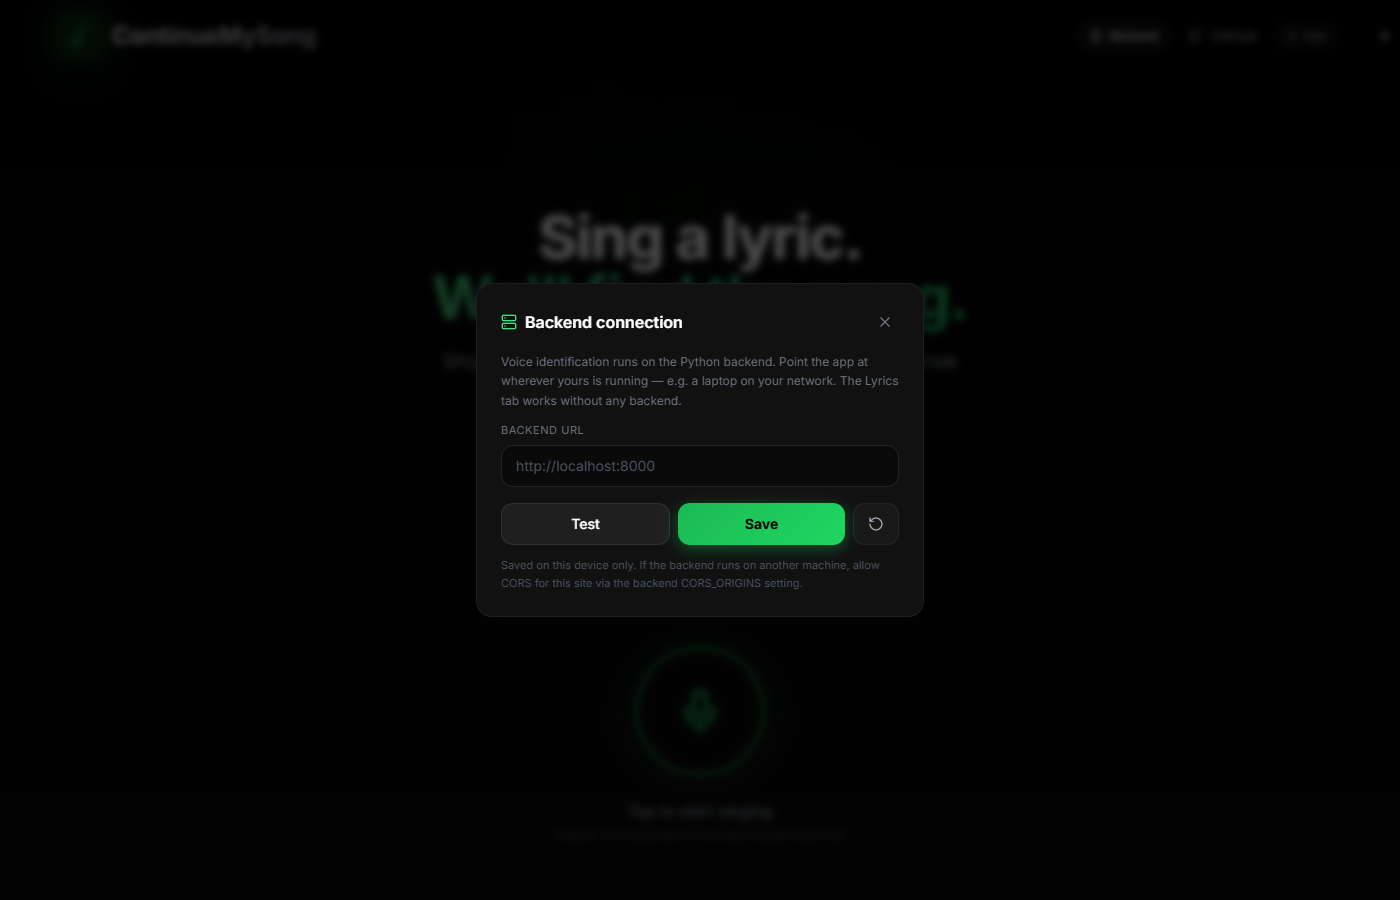
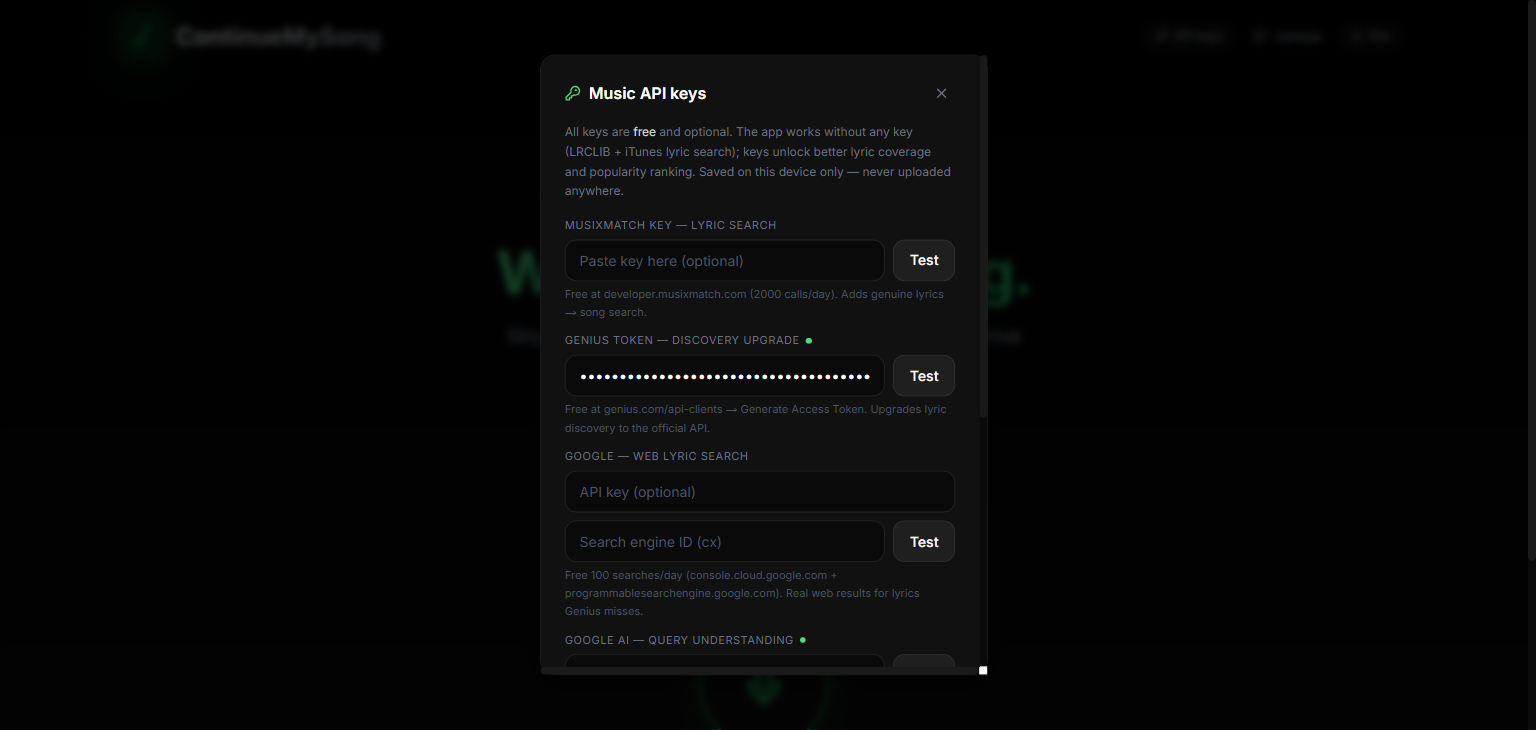
docs(search): fresh screenshots, harness count, larger model budget
maxOutputTokens 120->512 (thinking models truncated JSON replies),
README harness count 57, live-captured settings + Hey-Jude-#1
screenshots replacing stale UI images.

diff --git a/frontend/lib/browserSearch.ts b/frontend/lib/browserSearch.ts
@@ -121,7 +121,7 @@ async function geminiQueryVariants(transcript: string): Promise<string[]> {
     const r = await fetch("https://generativelanguage.googleapis.com/v1beta/models/" + GEMINI_MODEL + ":generateContent?key=" + encodeURIComponent(key), {
       method: "POST",
       headers: { "Content-Type": "application/json" },
-      body: JSON.stringify({ contents: [{ parts: [{ text: prompt }] }], generationConfig: { maxOutputTokens: 120, temperature: 0 } }),
+      body: JSON.stringify({ contents: [{ parts: [{ text: prompt }] }], generationConfig: { maxOutputTokens: 512, temperature: 0 } }),
       signal: timeoutSignal(9000),
     });
     if (!r.ok) return [];

diff --git a/README.md b/README.md
@@ -122,7 +122,7 @@ No song, language, or query is hardcoded. Every case in `backend/tests/eval_data
 
 ## Evaluation
 
-`pytest backend/tests/test_comprehensive_eval.py` measures Top-1/Top-3/Top-5, MRR/Recall@5 on the dataset; `pytest backend/tests/test_ranking.py` asserts lyric-content-first ordering (e.g. Hey Jude lyric vs title trap) remains green. Frontend has a 54-assertion harness (`frontend/verify-browsersearch.cjs`, run with `node frontend/verify-browsersearch.cjs`) covering romanization, scoring, spelling variants, version stripping, cover grouping, and web-result parsing.
+`pytest backend/tests/test_comprehensive_eval.py` measures Top-1/Top-3/Top-5, MRR/Recall@5 on the dataset; `pytest backend/tests/test_ranking.py` asserts lyric-content-first ordering (e.g. Hey Jude lyric vs title trap) remains green. Frontend has a 57-assertion harness (`frontend/verify-browsersearch.cjs`, run with `node frontend/verify-browsersearch.cjs`) covering romanization, scoring, spelling variants, version stripping, cover grouping, web-result parsing, and model-output parsing.
 
 ## Screenshots
 
